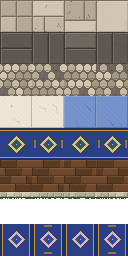
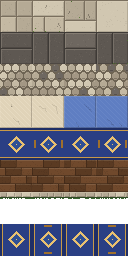
Living colour grading: per-environment profiles, flame lighting on every floor, time of day
Claude-Session: https://claude.ai/code/session_01Eh7z8CyPiHhErrHsYWpfjF

Changed region(s): [[0.0, 0.375, 0.5, 0.5]]

diff --git a/tools/make_decor.py b/tools/make_decor.py
@@ -128,7 +128,7 @@ def tile_marble(v):
     img = new(T, T)
     p = img.load()
     cream = v < 2
-    base = [hexc('ece4d2'), hexc('f1eadb')] if cream else [hexc('7590cb'), hexc('7d97cf')]
+    base = [hexc('e0d3b8'), hexc('e6dac1')] if cream else [hexc('5f7ec2'), hexc('6785c6')]
     for y in range(T):
         for x in range(T):
             c = base[(x * 7 + y * 3) % 5 == 0]

diff --git a/docs/stages/12-colour-grading.md b/docs/stages/12-colour-grading.md
@@ -1,0 +1,52 @@
+# Stage 12: Living colour grading
+
+**Date:** 2026-10-22
+
+## Goal
+Outdoors should feel bright and sunlit. Indoors, light should come only from plausible
+sources, and each kind of room should have its own atmosphere. The pixel art must stay
+crisp, with its original colours intact.
+
+## Findings before changing anything (renderer, imports, shaders)
+- **Renderer and imports:** the GL Compatibility renderer with nearest filtering and lossless
+  imports, so sprite colours reach the screen unchanged (measured in stage 8).
+- **One full-screen shader** did the sun and the grade. Its sun beams were only switched off
+  under a roof, so every interior got the same treatment.
+- **No 2D lighting nodes, no darkening overlays:** interiors had no local light sources, so they were evenly lit.
+
+## What changed
+- **Six environment profiles** (`scripts/grade.gd`), each with its own ambient colour and
+  brightness, highlight and shadow tints, saturation, contrast and vignette:
+  - **outdoor:** bright, slightly richer colours, warm highlights.
+  - **throne:** warm ivory, controlled.
+  - **bedroom:** warm walnut and fabrics, gentle shadows.
+  - **library:** amber light, cool corners.
+  - **kitchen:** firelight warmth.
+  - **stone:** cool, for the armory, treasury, storerooms and later the prison and tunnels.
+  - **chapel.**
+
+  Every room registers its profile (`main.add_env_zone`). Walking through a door eases from
+  one profile to the next in about half a second.
+- **Sun beams and sky glow** appear only outdoors.
+- **Light layer** (`scripts/light_layer.gd`): every torch, candle, brazier and fireplace on
+  every floor casts a stepped, hard-edged pool of light (pixel art, not a smooth blur) and a
+  faint glow on nearby walls and people. The light flickers, and only lights on screen are drawn.
+  - **Windows:** rooms with windows get narrow daylight patches on the floor.
+  - **Windowless rooms** (armory, treasury) get none.
+  - **Corners and edges** fall into soft shade.
+- **Time of day is ready:** day, afternoon, sunset and night (`main.time_of_day`).
+  - **Outdoors:** sunlight warms toward sunset and turns cool blue at night.
+  - **Indoors:** rooms dim at night, so the flames carry them, and flames glow stronger after dark.
+  - **For testing:** F2 cycles the time on a computer. A real day/night clock can drive it later.
+- **Throne hall marble:** a richer ivory and royal blue, so it no longer looks washed out.
+- **Shadows:** cast to the lower right, consistent with sunlight from the upper left.
+
+## How it was checked
+- **First test pair:** the courtyard (outdoor) and the throne hall (indoor), captured at
+  2392 × 1080 in day, sunset and night, and tuned twice.
+  - The throne hall was too pale, so its exposure and the brazier light were reduced and the
+    marble was made richer.
+- **Then the other rooms:** the library, armory, a royal bedroom, the kitchen and the outdoor town.
+- **Gameplay tests:** Mission 1 completes, and all 19 door and stair checks pass.
+
+![Grading tests](../images/12_grading.jpg)

diff --git a/docs/README.md b/docs/README.md
@@ -17,7 +17,8 @@ the team can see what was decided, why, and where it lives in the code.
 | 8 | [Colour correction](stages/08-colour-correction.md) | `f8f4452` | Diagnosed and fixed colours: importer, grade, lighting |
 | 9 | [CrossCode-style camera](stages/09-camera-zones.md) | `5281976` | Camera zones, look-ahead, framed rooms, conversation framing |
 | 10 | [Royal Citadel v2, main floor](stages/10-citadel-v2-main-floor.md) | `c95b8f4` | 100×90-tile citadel from the approved plan, atlas 2 imported, city grown 1.45× |
-| 11 | [Main-floor visual polish](stages/11-main-floor-polish.md) | (see git log) | Grand throne hall, furniture scale audit, zoned royal wings, unique gardens, local lighting, S4 sealed, interior camera |
+| 11 | [Main-floor visual polish](stages/11-main-floor-polish.md) | `4b6061a` | Grand throne hall, furniture scale audit, zoned royal wings, unique gardens, local lighting, S4 sealed, interior camera |
+| 12 | [Living colour grading](stages/12-colour-grading.md) | (see git log) | Per-room grading profiles, local flame lighting on every floor, time of day (day/afternoon/sunset/night) |
 
 **Adding a stage:** copy [stages/TEMPLATE.md](stages/TEMPLATE.md) to the next number, fill
 it in, and add a row to the table above in the same commit as the work.
